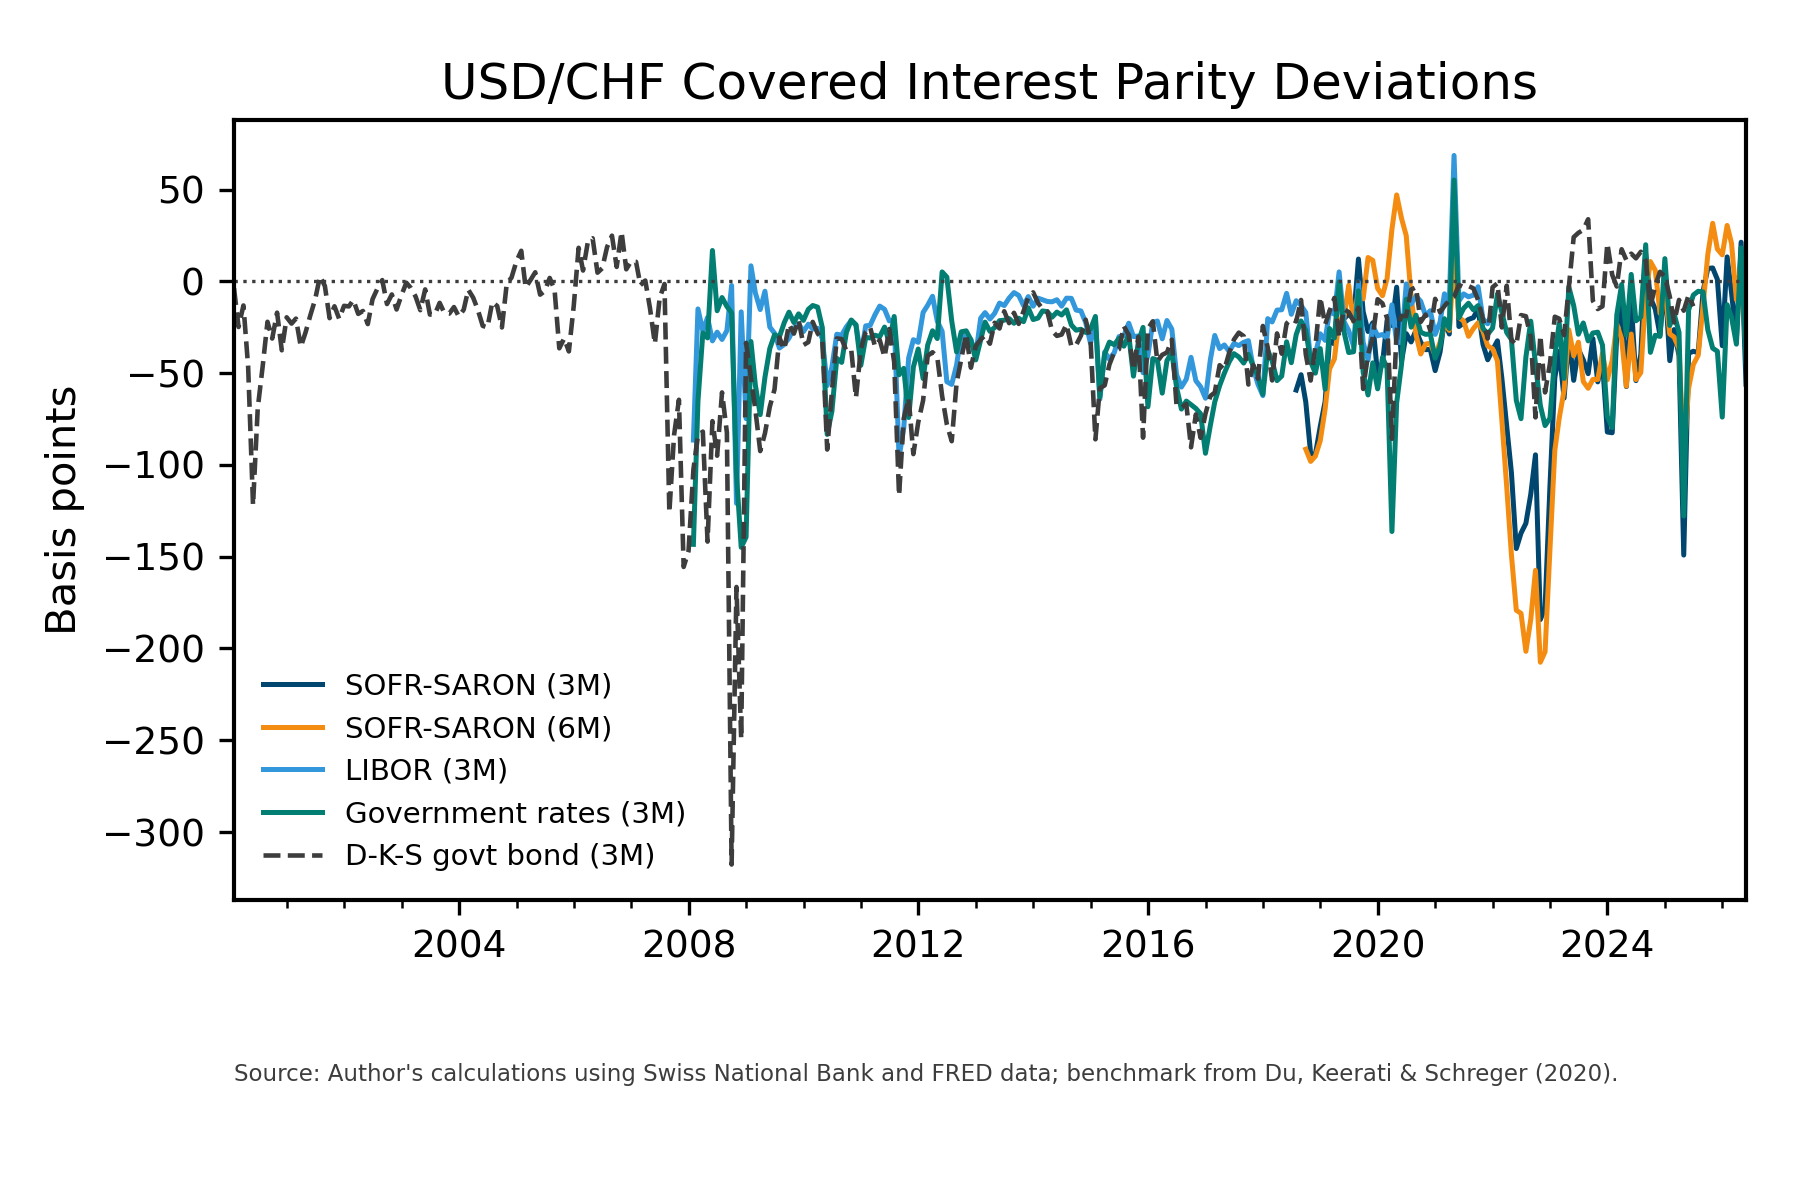
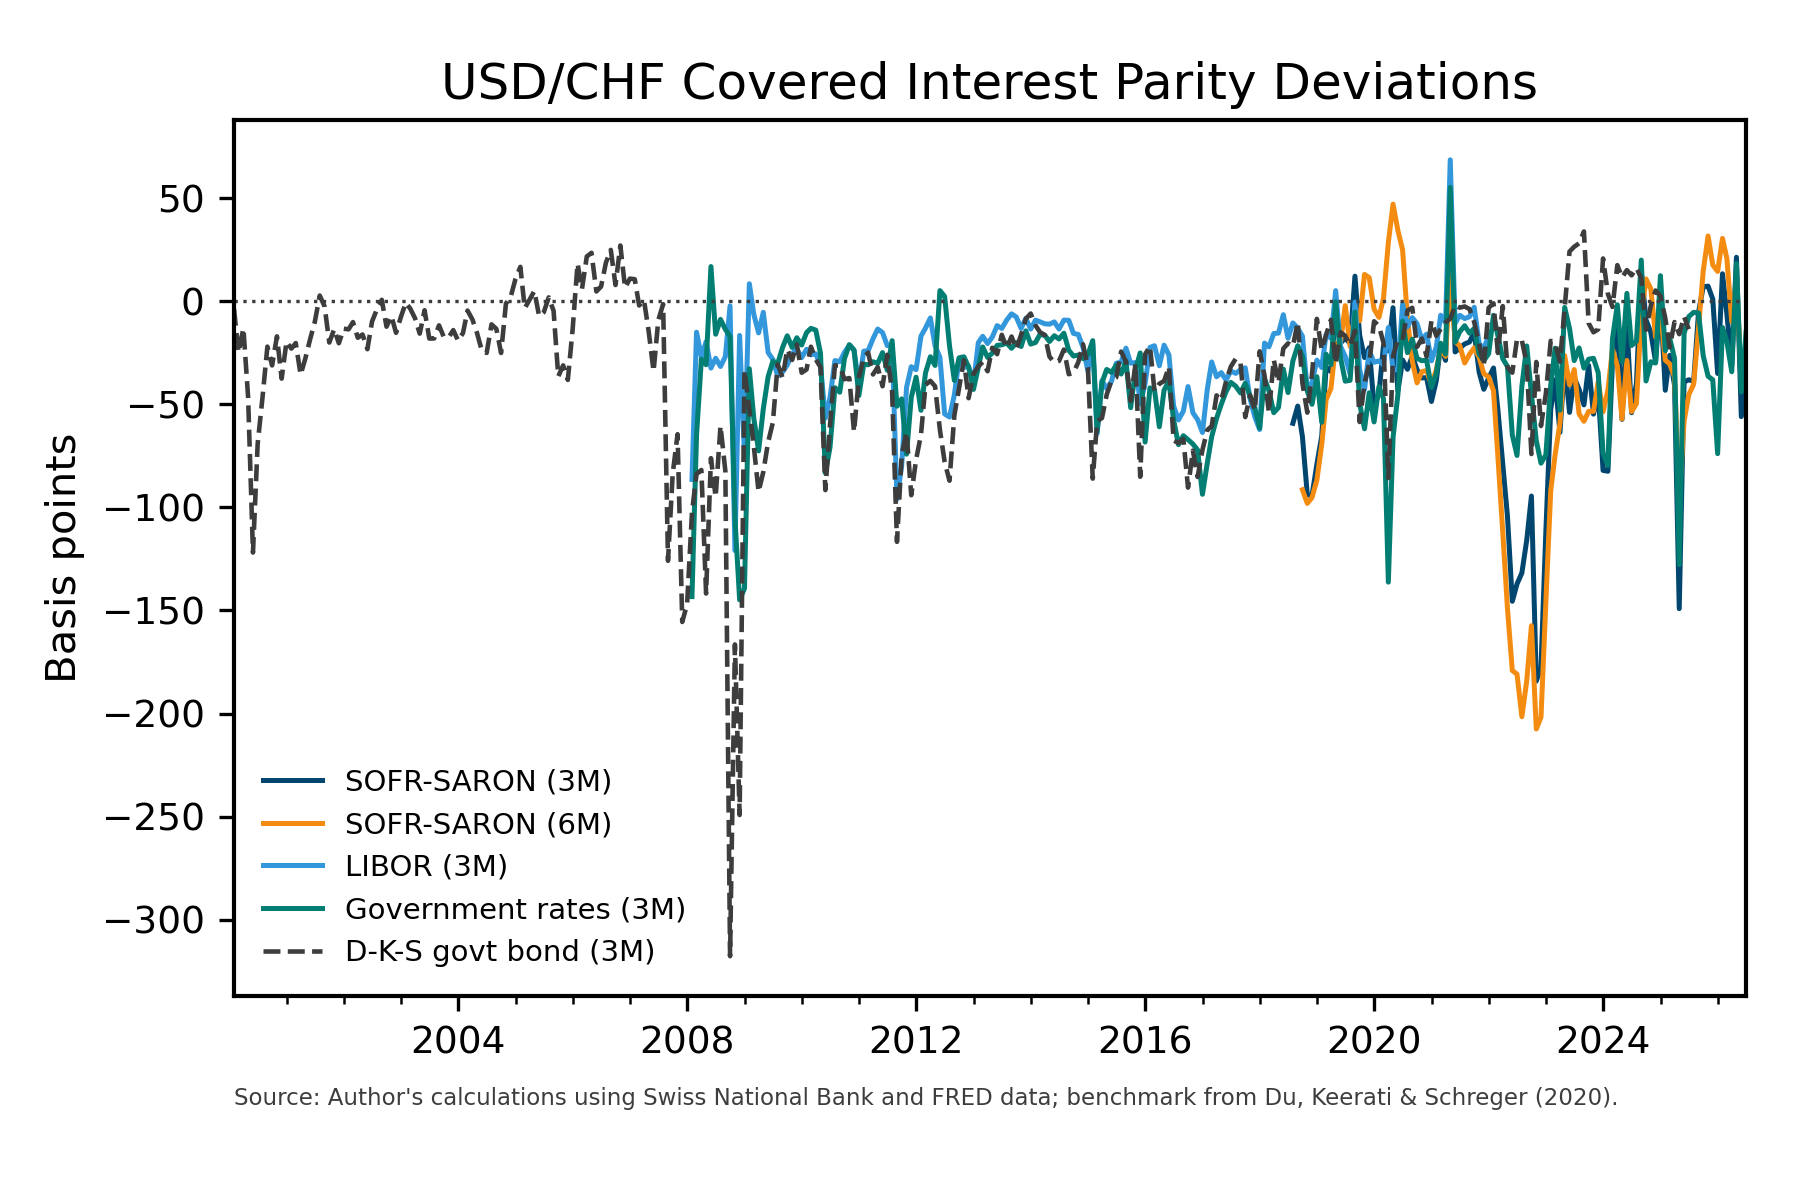
Prepare public CIP update workflow

diff --git a/usd_chf_cip.py b/usd_chf_cip.py
@@ -425,11 +425,21 @@ def plot_outputs(panel: pd.DataFrame) -> None:
     ax.xaxis.set_major_formatter(mdates.DateFormatter("%Y"))
     plt.setp(ax.get_xticklabels(), rotation=0, ha="center")
     ax.tick_params(axis="x", which="minor", bottom=True)
+    plt.subplots_adjust(left=0.13, right=0.97, top=0.90, bottom=0.17)
 
-    note = "Source: Author's calculations using Swiss National Bank and FRED data; benchmark from Du, Keerati & Schreger (2020)."
-    fig.text(0.13, 0.095, note, ha="left", va="bottom", fontsize=5.5, color=palette[8], wrap=True)
-    plt.subplots_adjust(left=0.13, right=0.97, top=0.90, bottom=0.25)
+    note = (
+        "Source: Author's calculations using Swiss National Bank and FRED data; "
+        "benchmark from Du, Keerati & Schreger (2020)."
+    )
 
+    fig.text(
+        0.13, 0.075,
+        note,
+        ha="left",
+        va="bottom",
+        fontsize=5.5,
+        color=palette[8]
+    )
     os.makedirs(os.path.dirname(CONFIG["CHART_OUTPUT_PATH"]), exist_ok=True)
     plt.savefig(CONFIG["CHART_OUTPUT_PATH"])
     plt.close(fig)
@@ -437,6 +447,7 @@ def main() -> None:
     os.makedirs("data", exist_ok=True)
     os.makedirs("chart", exist_ok=True)
     output_panel, chart_panel = build_outputs()
+    output_panel = output_panel.dropna(how="all")
     output_panel.to_csv(CONFIG["DATA_OUTPUT_PATH"], index_label="Date")
     plot_outputs(chart_panel)
     print(f"Saved monthly data to {CONFIG['DATA_OUTPUT_PATH']}")

diff --git a/README.md b/README.md
@@ -1,4 +1,4 @@
-# Monthly USD/CHF Covered Interest Parity Deviations
+# Monthly USD/CHF Covered Interest Parity Deviations
 
 ![Update USD/CHF CIP Data and Chart](https://github.com/iweigandi/usd-chf-cip-deviations/actions/workflows/update_cip.yml/badge.svg)
 
@@ -41,7 +41,7 @@ where \(S_t\) is the spot exchange rate in CHF per USD and \(F_t^T\) is the corr
 (r_USD,t^T - r_CHF,t^T) - [-log(F_t^T / S_t) / T]
 ```
 
-The series are annualized and reported in basis points. For details, see the [Methodological Note](Methodology.pdf).
+The series are annualized and reported in basis points.
 
 ---
 
@@ -62,4 +62,4 @@ pip install -r requirements.txt
 python usd_chf_cip.py
 ```
 
-The GitHub Action refreshes the data, chart, and methodology PDF monthly.
+The GitHub Action refreshes the data and chart monthly.